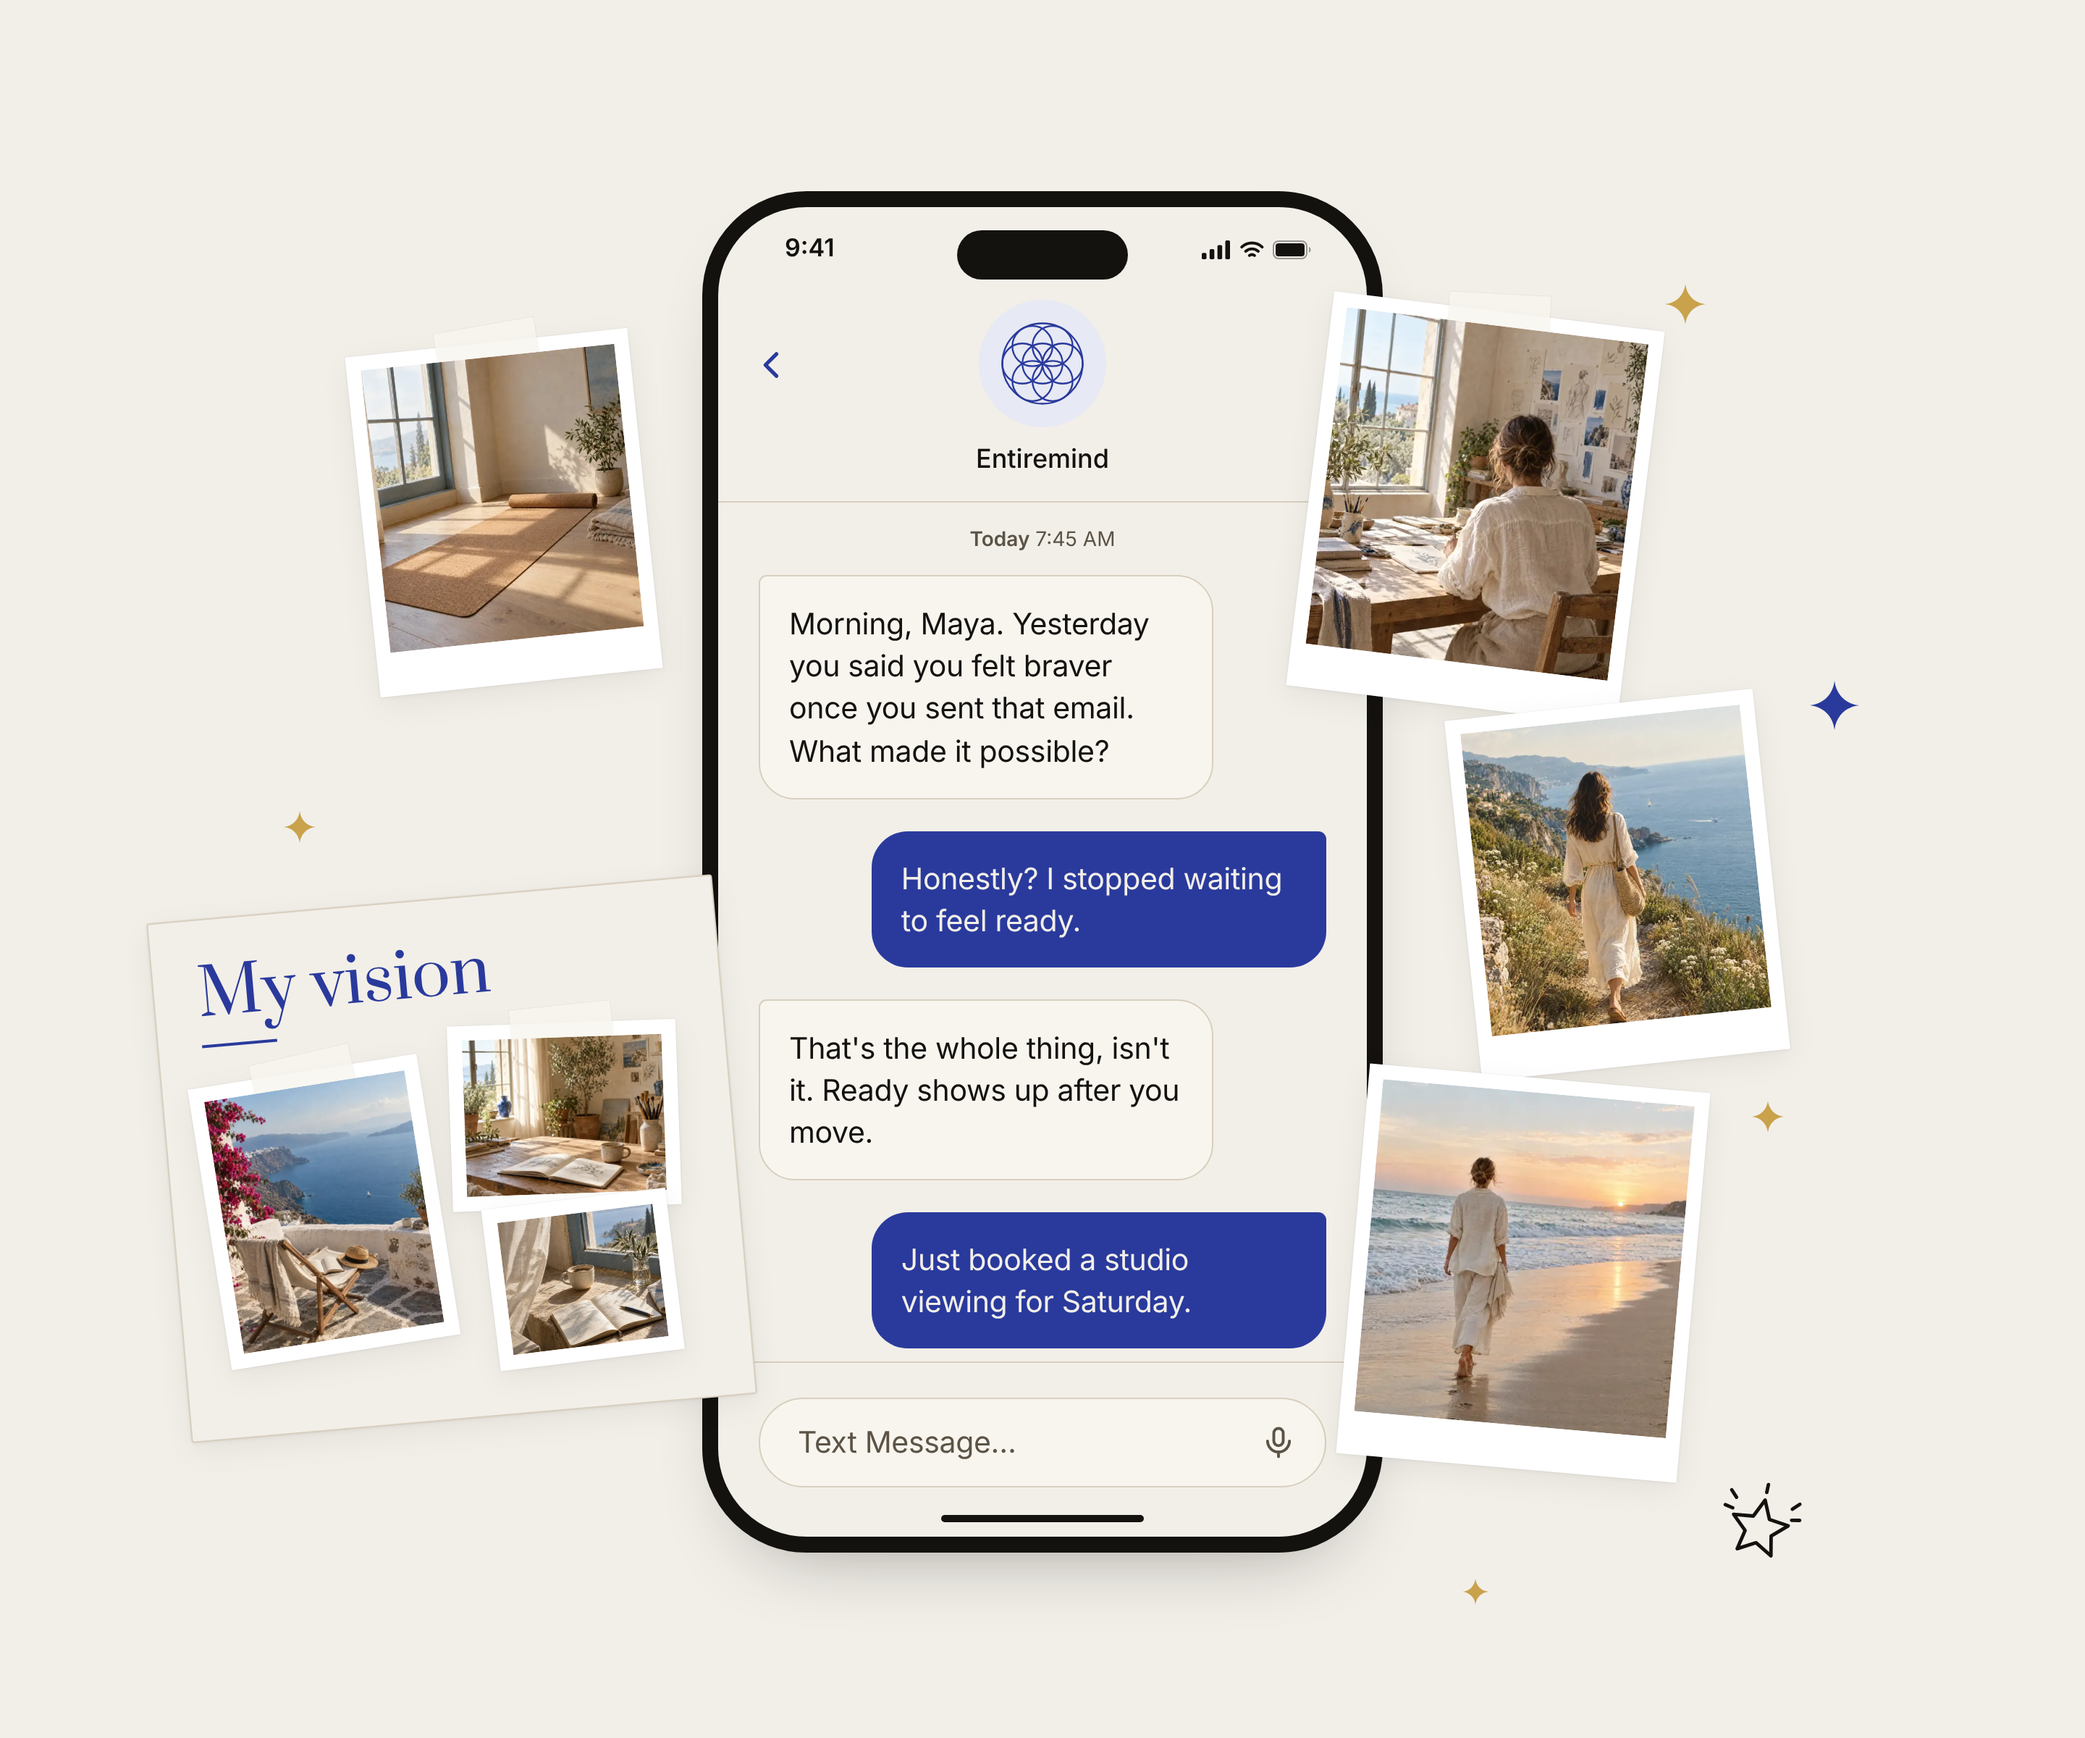
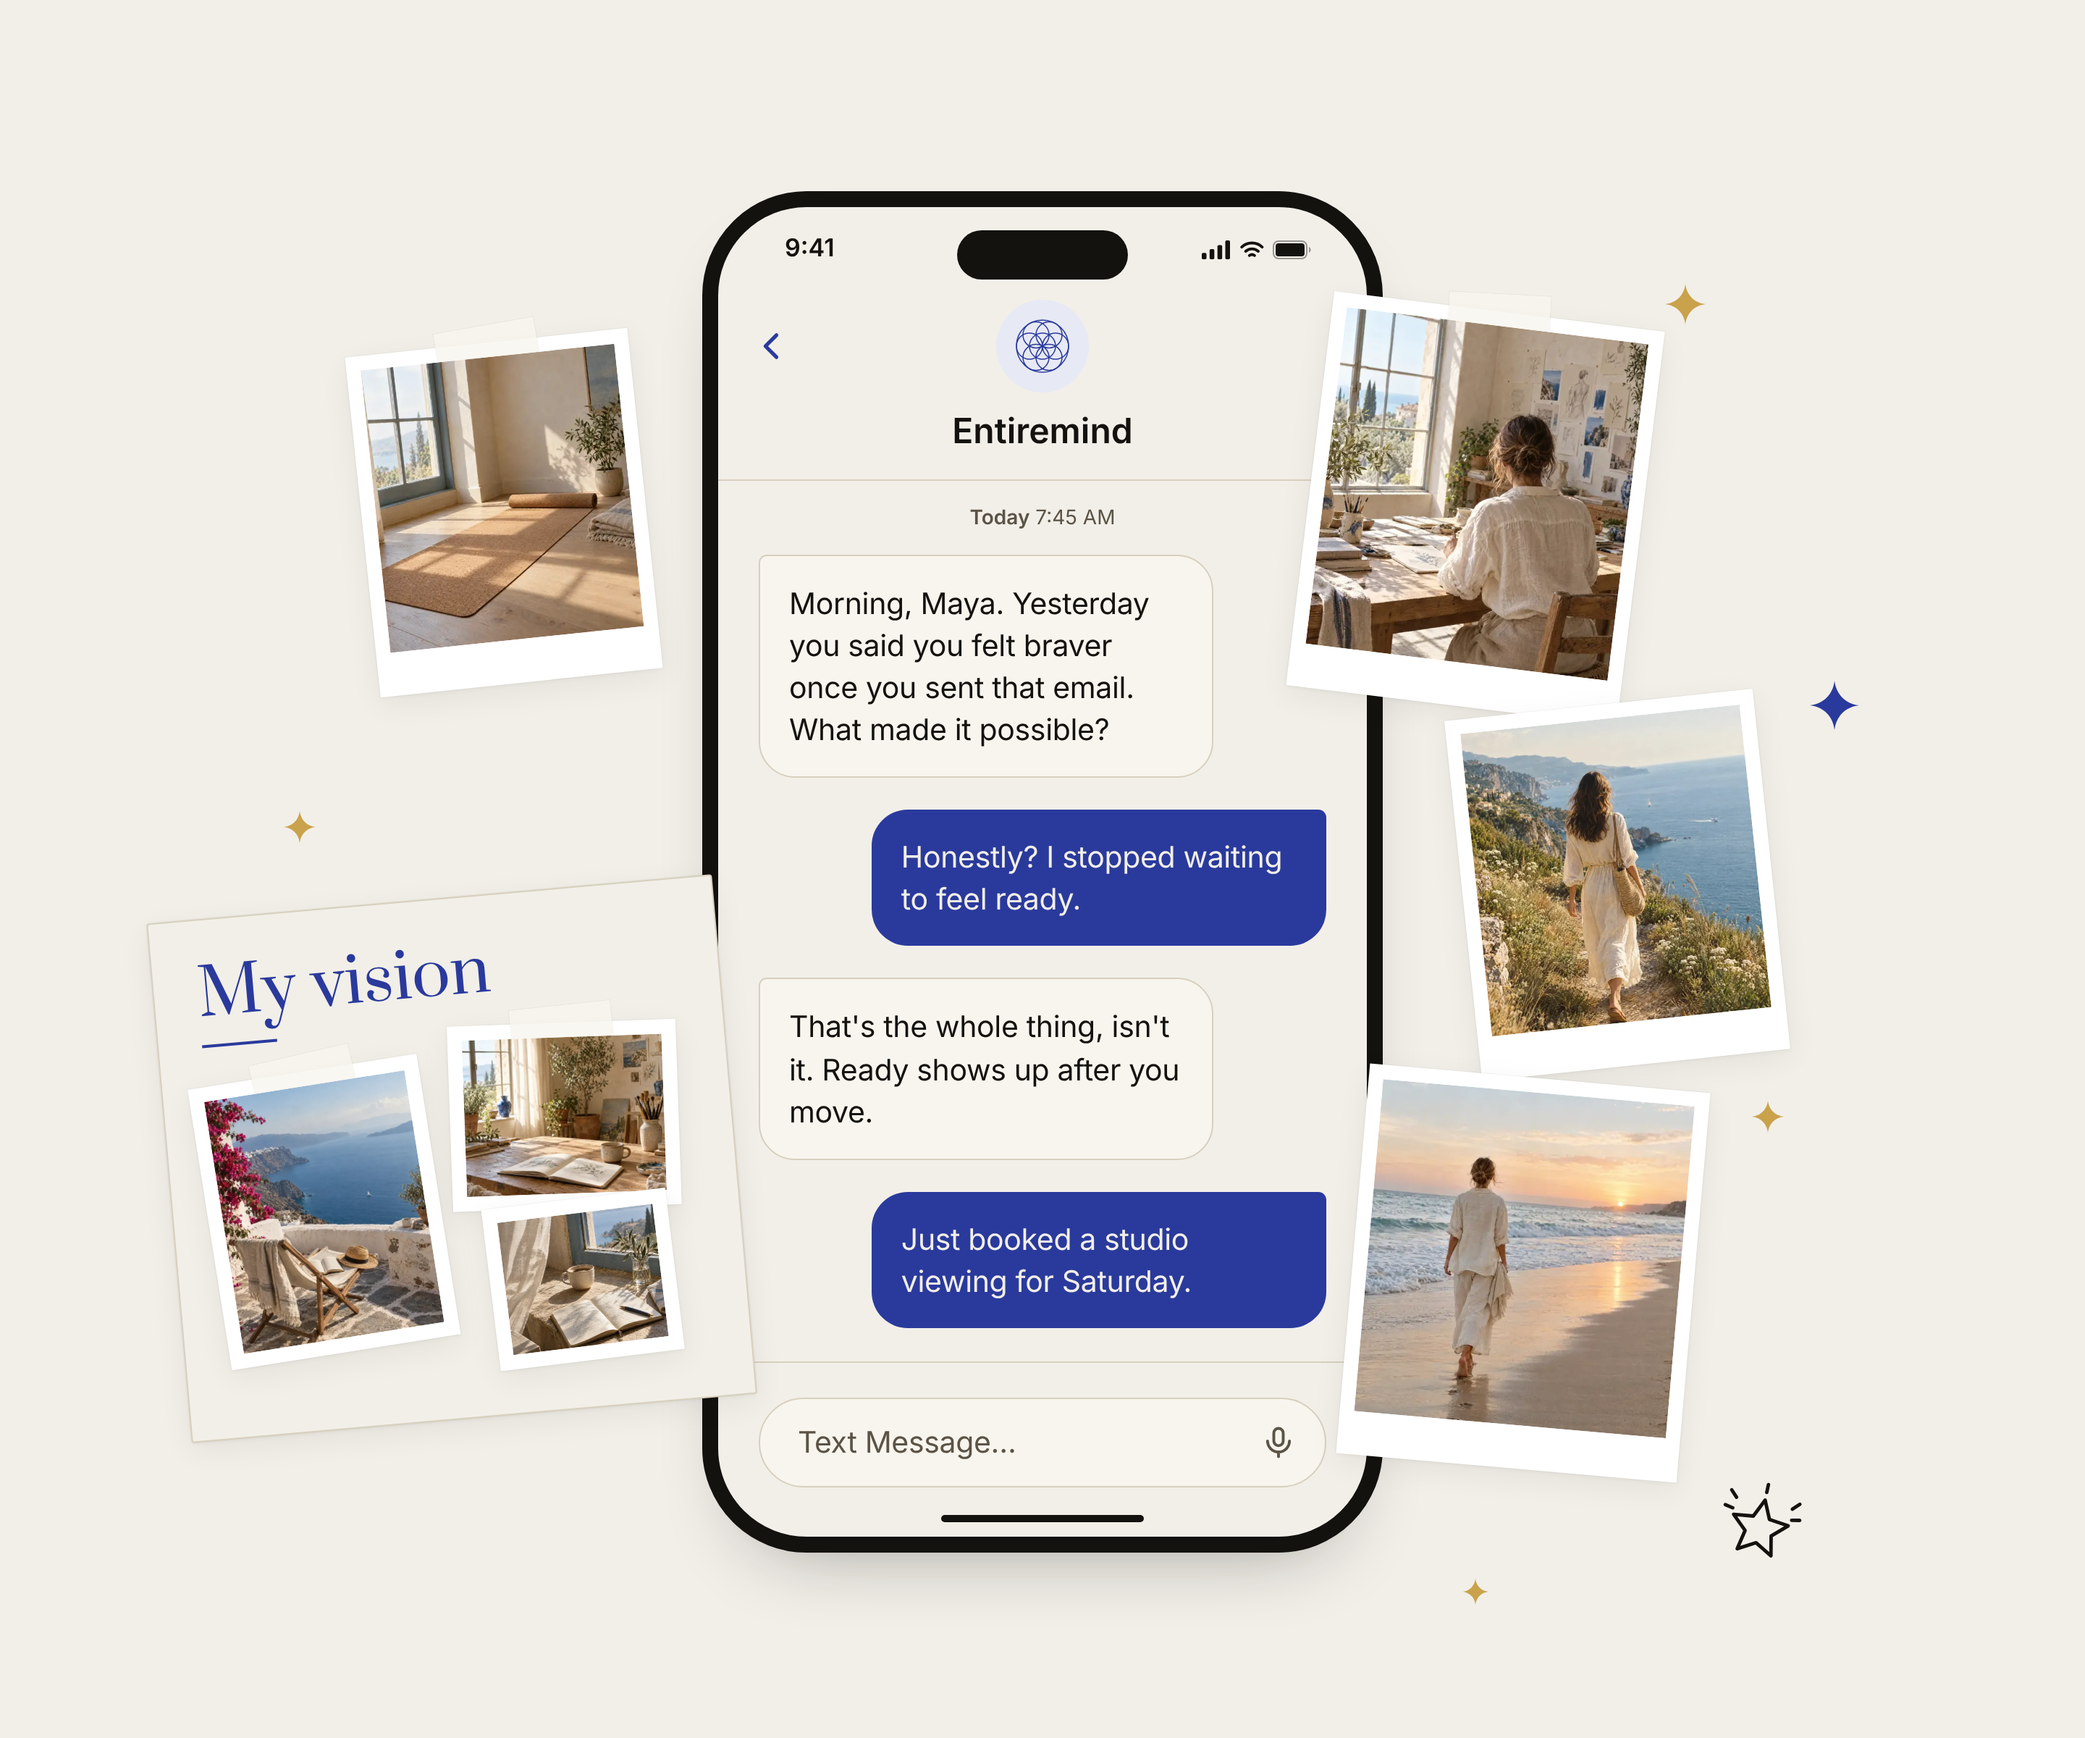
SmsPhone: restore the mark's size, enlarge the name instead
Avatar back to 64u (mark 48u); 'Entiremind' goes from 18u/500 to
24u/600 so the word reads. The scatter and spill scenes are
re-rendered.

Claude-Session: https://claude.ai/code/session_01XFR3k6ZrktobPacJJyLqAi

Changed region(s): [[0.375, 0.3438, 0.6562, 0.7812], [0.4688, 0.1875, 0.5312, 0.3125]]

diff --git a/src/components/landing/sms-phone.module.css b/src/components/landing/sms-phone.module.css
@@ -97,15 +97,15 @@
 .back {
   position: absolute;
   left: calc(var(--u) * 24);
-  top: calc(var(--u) * 38);
+  top: calc(var(--u) * 25);
   width: calc(var(--u) * 26);
   height: calc(var(--u) * 26);
   color: var(--color-cobalt);
 }
 
 .avatar {
-  width: calc(var(--u) * 88);
-  height: calc(var(--u) * 88);
+  width: calc(var(--u) * 64);
+  height: calc(var(--u) * 64);
   border-radius: 50%;
   background: var(--color-cobalt-wash);
   color: var(--color-cobalt);
@@ -114,14 +114,14 @@
 }
 
 .avatar svg {
-  width: calc(var(--u) * 74);
-  height: calc(var(--u) * 74);
+  width: calc(var(--u) * 48);
+  height: calc(var(--u) * 48);
 }
 
 .name {
   margin-top: calc(var(--u) * 8);
-  font-size: calc(var(--u) * 18);
-  font-weight: 500;
+  font-size: calc(var(--u) * 24);
+  font-weight: 600;
   letter-spacing: 0;
 }
 
